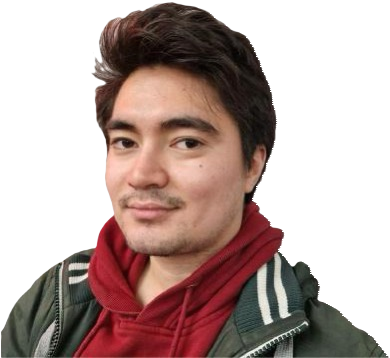
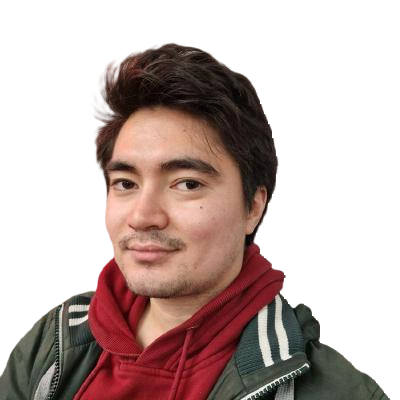
fix image

diff --git a/projects.html b/projects.html
@@ -50,7 +50,7 @@
         border: 1px solid black;
         margin: 30px auto;
         padding: 30px;
-        text-align: left;
+        text-align: center;
         background-color: lightgoldenrodyellow;
         overflow: hidden;
         position: relative;
@@ -58,7 +58,7 @@
     }
 
     .project:hover {
-        width: 80%;
+        width: 75%;
     }
 
     .projects a {
@@ -78,9 +78,9 @@
     }
 
     .project img:hover {
-        margin: 35px auto;
-        -webkit-transform:scale(1.3);
-        transform:scale(1.3);
+        margin: 50px auto;
+        -webkit-transform:scale(1.5);
+        transform:scale(1.5);
     }
     /* Projects div block */
 </style>
@@ -96,128 +96,115 @@
     </nav>
     
     <div class="projects">
-        <a href="https://github.com/AAleka/chat-server" target="_blank">
-            <div class="project">
+        <div class="project">
+            <a href="https://github.com/AAleka/chat-server" target="_blank">
                 <h2>
                     Instant messaging application (Server).
                 </h2>
                 <p>
                     A C++ project with CMake and several libraries including ASIO for networking, OpenSSL for end-to-end encryption and decryption, and SQLite3 for database management. The server side is run locally on my Raspberry Pi SBC, and is responsible for ensuring safe real-time intercommunication between clients with end-to-end encryption and decryption, storage of chat history, and connections.  
                 </p>
-            </div>
-        </a>
-        <a href="https://github.com/AAleka/chat-client" target="_blank">
-            <div class="project">
+            </a>
+        </div>
+        <div class="project">
+            <a href="https://github.com/AAleka/chat-client" target="_blank">
                 <h2>
                     Instant messaging application (Client).
                 </h2>
                 <p>
                     A C++ project with CMake and several libraries including ASIO for networking, OpenSSL for end-to-end encryption and decryption, GLFW, ImGui, and stb for the client-side GUI application. The client side includes a GUI part and a TCP connection with the server, which are run concurrently.   
                 </p>
-                <div style="text-align: center;">
-                    <video src="images/chat.mp4" controls></video>
-            
-                </div>
-            </div>
-        </a>
-        <a href="https://github.com/AAleka/vsfm" target="_blank">
-            <div class="project">
+                <video src="images/chat.mp4" controls></video>
+            </a>
+        </div>
+        <div class="project">
+            <a href="https://github.com/AAleka/vsfm" target="_blank">
                 <h2>
                     GUI file managing application.
                 </h2>
                 <p>
                     A C++ project with CMake and an ImGui library. It is supported on Windows and Linux systems.
                 </p>
-                <div style="text-align: center;">
-                    <img src="images/vsfm-1.png" width="30%">
-                    <img src="images/vsfm-2.png" width="30%">
-                    <img src="images/vsfm-3.png" width="30%">
-                </div>
-            </div>
-        </a>
-        <a href="https://github.com/AAleka/JustTasks" target="_blank">
-            <div class="project">
+                <img src="images/vsfm-1.png" width="30%">
+                <img src="images/vsfm-2.png" width="30%">
+                <img src="images/vsfm-3.png" width="30%">
+            </a>
+        </div>
+        <div class="project">
+            <a href="https://github.com/AAleka/JustTasks" target="_blank">
                 <h2>
                     Desktop task managing application.
                 </h2>
                 <p>
                     A C++ project with Qt and SQL. It is supported on Windows and Linux systems.
                 </p>
-                <div style="text-align: center;">
-                    <img src="images/JustTasks.png" width="30%">
-                </div>
-            </div>
-        </a>
-        <a href="https://github.com/AAleka/Ades" target="_blank">
-            <div class="project">
+                <img src="images/JustTasks.png" width="30%">
+            </a>
+        </div>
+        <div class="project">
+            <a href="https://github.com/AAleka/Ades" target="_blank">
                 <h2>
                     Web-planner application.
                 </h2>
                 <p>
                     A project in HTML, CSS, JavaScript, and Python. It is run locallyusing Python server for storing tasks and plans.
                 </p>
-                <div style="text-align: center;">
-                    <img src="images/ades1.png" width="40%">
-                    <img src="images/ades2.png" width="40%">
-                </div>
-            </div>
-        </a>
-        <a href="https://github.com/AAleka/taskmanager" target="_blank">
-            <div class="project">
+                <img src="images/ades1.png" width="40%">
+                <img src="images/ades2.png" width="40%">
+            </a>
+        </div>
+        <div class="project">
+            <a href="https://github.com/AAleka/taskmanager" target="_blank">
                 <h2>
                     Task managing console application.
                 </h2>
                 <p>
                     A C++ project with CMake for storing tasks locally.
                 </p>
-            </div>
-        </a>
-        <a href="https://github.com/AAleka/SelfDrivingCarSimulation" target="_blank">
-            <div class="project">
+            </a>
+        </div>
+        <div class="project">
+            <a href="https://github.com/AAleka/SelfDrivingCarSimulation" target="_blank">
                 <h2>
                     Self-driving car simulation.
                 </h2>
                 <p>
                     A deep learning project with Python and TensorFlow. A deep learning model trained to control a car in the Udacity car simulation.
                 </p>
-                <div style="text-align: center;">
-                    <iframe width="50%" height="315px" src="https://www.youtube.com/embed/fgMtfUBhtuM?si=2-lLnHmC1hznrxJO" title="YouTube video player" frameborder="0" allow="accelerometer; autoplay; clipboard-write; encrypted-media; gyroscope; picture-in-picture; web-share" allowfullscreen></iframe>
-                </div>
-            </div>
-        </a>
-        <a href="https://github.com/AAleka/SteamDBScraper" target="_blank">
-            <div class="project">
+                <iframe width="50%" height="315px" src="https://www.youtube.com/embed/fgMtfUBhtuM?si=2-lLnHmC1hznrxJO" title="YouTube video player" frameborder="0" allow="accelerometer; autoplay; clipboard-write; encrypted-media; gyroscope; picture-in-picture; web-share" allowfullscreen></iframe>
+            </a>
+        </div>
+        <div class="project">
+            <a href="https://github.com/AAleka/SteamDBScraper" target="_blank">
                 <h2>
                     Web-scraping application for SteamDB.
                 </h2>
                 <p>
                     A web-scraping application for SteamDB that notifies over email if there are available discounts for selected games with Selenium, a browser automation library for Python, inside a Docker container.
                 </p>
-            </div>
-        </a>
-        <a href="https://github.com/AAleka/RockPaperScissorSimulation" target="_blank">
-            <div class="project">
+            </a>
+        </div>
+        <div class="project">
+            <a href="https://github.com/AAleka/RockPaperScissorSimulation" target="_blank">
                 <h2>
                     Rock, Scissor, Paper simulation.
                 </h2>
                 <p>
                     A console-based simulation in Odin programming language with a search algorithm for decision making.
                 </p>
-                <div style="text-align: center;">
-                    <video src="images/rockpaperscissor.webm" style="width: 30%; height: auto;" controls></video>
-                </div>
-            </div>
-        </a>
-        <a href="https://github.com/AAleka/imagecaption" target="_blank">
-            <div class="project">
+                <video src="images/rockpaperscissor.webm" style="width: 30%; height: auto;" controls></video>
+            </a>
+        </div>
+        <div class="project">
+            <a href="https://github.com/AAleka/imagecaption" target="_blank">
                 <h2>
                     Image captioning.
                 </h2>
                 <p>
                     A vision transformer with natural language processing transformer deep learning model for image description/captioning in Python and PyTorch.
                 </p>
-            </div>
-        </a>
+            </a>
+        </div>
     </div>
 </body>
 

diff --git a/index.html b/index.html
@@ -50,7 +50,7 @@
     }
 
     .image {
-        margin: 10px;
+        margin: -4px auto;
         max-height: 100%;
         max-width: 100%;
     }
@@ -60,7 +60,7 @@
         font-size: 25px;
         color: azure;
         text-align: left;
-        margin: auto;
+        margin: auto 10px;
         background: linear-gradient(to right, #F0FFFF, #F8F8FF, #FFFFF0, #eedd44);
         -webkit-text-fill-color: transparent; 
         -webkit-background-clip: text; 
@@ -158,7 +158,7 @@
     
     <div class="about">
         <div class="image">
-            <img src="images/me.jpeg" width="100%">
+            <img src="images/me.png" width="90%">
         </div>
         
         <div class="text">
